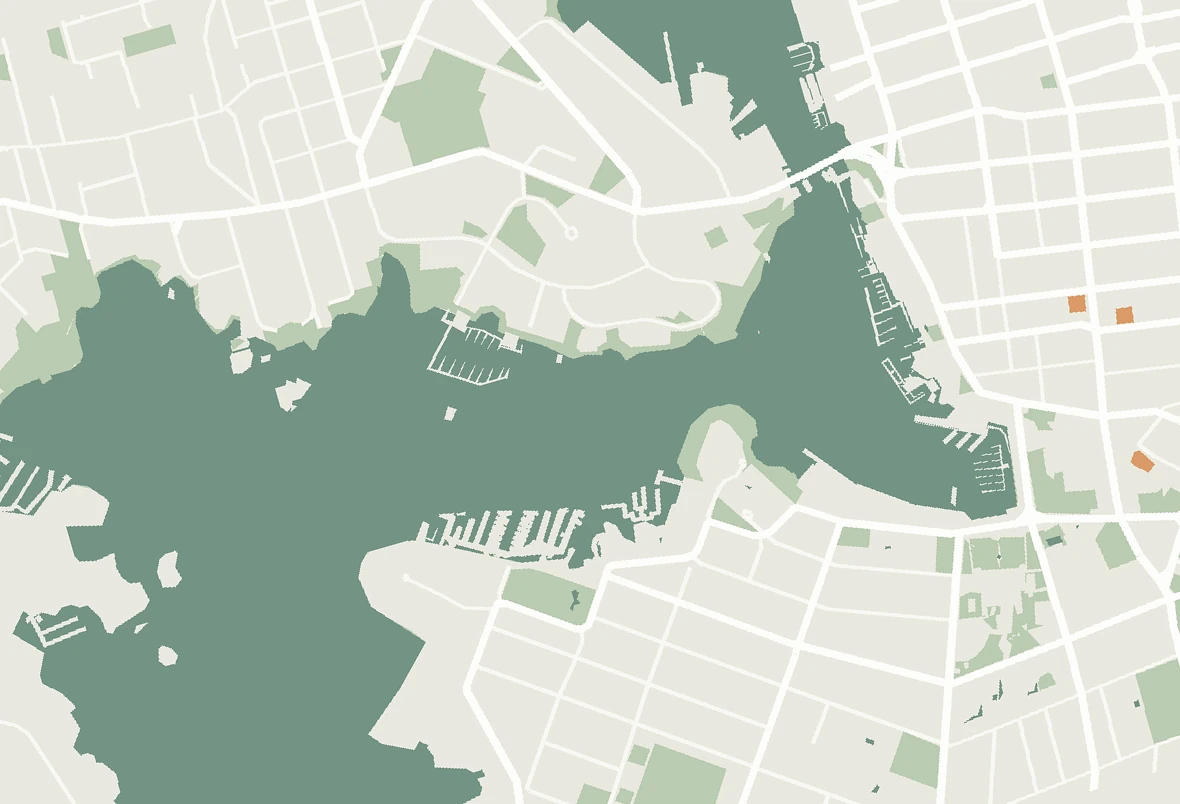
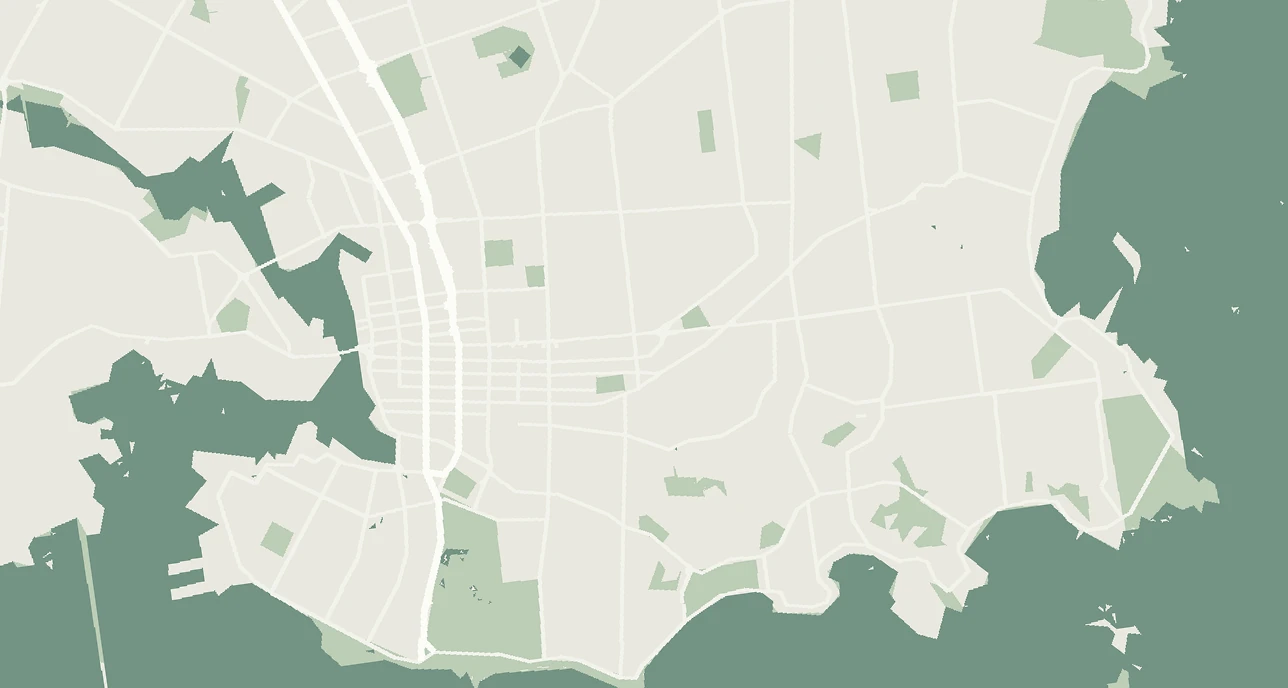
Widen and soften the Victoria hero map

diff --git a/src/styles/atlas.css b/src/styles/atlas.css
@@ -60,16 +60,11 @@
 
 .site-header {
   display: flex;
-  justify-content: space-between;
+  justify-content: flex-end;
   align-items: center;
   gap: 1rem;
   padding-block: 19px 15px;
   border-bottom: 1px solid var(--ink);
-}
-
-.site-name {
-  font: 400 clamp(1.4rem, 2.5vw, 1.95rem) / 1 var(--font-serif);
-  letter-spacing: -0.035em;
 }
 
 .site-header nav,
@@ -141,17 +136,35 @@
   position: absolute;
   z-index: -1;
   inset: 0 max(-4vw, -52px) 0 auto;
-  width: min(74%, 900px);
+  width: min(83%, 1000px);
 }
 
 .harbour > img {
   width: 100%;
   height: 100%;
   object-fit: cover;
-  object-position: 75% 50%;
+  object-position: 86% 50%;
   mask-image:
-    linear-gradient(to right, transparent 5%, rgb(0 0 0 / 42%) 24%, #000 44%),
-    linear-gradient(to bottom, #000 75%, transparent 99%);
+    linear-gradient(
+      to right,
+      transparent 3%,
+      rgb(0 0 0 / 8%) 16%,
+      rgb(0 0 0 / 36%) 32%,
+      rgb(0 0 0 / 76%) 48%,
+      rgb(0 0 0 / 96%) 63%,
+      #000 74% 85%,
+      rgb(0 0 0 / 78%) 92%,
+      rgb(0 0 0 / 28%) 97%,
+      transparent 100%
+    ),
+    linear-gradient(
+      to bottom,
+      #000 50%,
+      rgb(0 0 0 / 89%) 63%,
+      rgb(0 0 0 / 52%) 78%,
+      rgb(0 0 0 / 14%) 91%,
+      transparent 100%
+    );
   mask-composite: intersect;
 }
 
@@ -373,13 +386,23 @@
 
   .harbour > img {
     mask-image:
-      linear-gradient(to right, transparent, #000 51%),
+      linear-gradient(
+        to right,
+        transparent,
+        rgb(0 0 0 / 12%) 14%,
+        rgb(0 0 0 / 52%) 34%,
+        rgb(0 0 0 / 93%) 61%,
+        #000 83%
+      ),
       linear-gradient(
         to bottom,
-        transparent 18%,
-        #000 51%,
-        #000 73%,
-        transparent 94%
+        transparent 9%,
+        rgb(0 0 0 / 16%) 24%,
+        rgb(0 0 0 / 62%) 41%,
+        #000 59%,
+        rgb(0 0 0 / 72%) 76%,
+        rgb(0 0 0 / 22%) 91%,
+        transparent 100%
       );
   }
 

diff --git a/scripts/render-victoria-map.py b/scripts/render-victoria-map.py
@@ -21,9 +21,10 @@ from shapely.affinity import affine_transform
 from shapely.ops import unary_union
 
 
-ZOOM = 14
-LEFT, TOP, RIGHT = 2575.88, 5665.60, 2577.78
-WIDTH, HEIGHT = 1440, 1024
+# Frame the city from Victoria Harbour to the Oak Bay shoreline.
+ZOOM = 13
+LEFT, TOP, RIGHT = 1287.7, 2832.16, 1290.75
+WIDTH, HEIGHT = 1440, 890
 SCALE = WIDTH / (RIGHT - LEFT)
 BOTTOM = TOP + HEIGHT / SCALE
 OUTPUT = Path(__file__).resolve().parents[1] / "src/assets/atlas/victoria-harbour.webp"
@@ -51,7 +52,6 @@ def tile_features():
                     "park",
                     "landcover",
                     "landuse",
-                    "building",
                     "transportation",
                 }:
                     continue
@@ -97,61 +97,41 @@ def main():
     land, water = "#e9e9df", "#749485"
     image = Image.new("RGB", (WIDTH, HEIGHT), land)
     draw = ImageDraw.Draw(image)
-    layers = {
-        name: [] for name in ("green", "water", "building", "minor", "major", "pier")
-    }
+    layers = {name: [] for name in ("green", "water", "arterial", "major")}
     for layer, properties, geometry in tile_features():
         kind = properties.get("class")
         if layer == "water":
             layers["water"].append(geometry)
-        if layer == "building":
-            layers["building"].append(geometry)
         if (
             layer == "park"
             or layer == "landcover"
             and kind in {"wood", "grass"}
             or layer == "landuse"
             and kind in {"recreation_ground", "cemetery"}
-        ):
+        ) and geometry.area > 350:
             layers["green"].append(geometry)
         if layer == "transportation":
-            if kind in {"motorway", "trunk", "primary", "secondary", "tertiary"}:
+            if kind in {"motorway", "trunk", "primary"}:
                 layers["major"].append(geometry)
-            elif kind == "minor" and properties.get("subclass") != "service":
-                layers["minor"].append(geometry)
-            elif kind == "pier":
-                layers["pier"].append(geometry)
+            elif kind in {"secondary", "tertiary"}:
+                layers["arterial"].append(geometry)
 
-    for green in layers["green"]:
-        if green.area > 150:
-            polygon(draw, green.simplify(2), "#bacbb1", land)
-    for building in layers["building"]:
-        point = building.representative_point()
-        accent = (
-            building.area > 180
-            and point.x > WIDTH * 0.59
-            and int(point.x + point.y) % 31 == 0
-        )
-        if accent:
-            polygon(draw, building.simplify(1.5), "#da9a67", land)
+    green = unary_union(layers["green"]).simplify(5)
+    polygon(draw, green, "#bccdb6", land)
 
-    shoreline = unary_union(layers["water"]).simplify(2)
+    shoreline = unary_union(layers["water"]).simplify(5)
     polygon(draw, shoreline, water, land)
 
     for name, color, width in [
-        ("minor", "#f8f8f3", 4),
-        ("pier", "#e9e9df", 5),
-        ("major", "#fdfdfb", 8),
+        ("arterial", "#f3f3ed", 4),
+        ("major", "#fcfcf7", 7),
     ]:
         for geometry in layers[name]:
-            geometry = geometry.simplify(1.5)
-            if name == "pier":
-                polygon(draw, geometry, color, water)
-            line(draw, geometry, color, width)
+            line(draw, geometry.simplify(3), color, width)
 
-    # Frame the harbour as an editorial illustration using a rotated, inset crop.
-    image = image.rotate(16, resample=Image.Resampling.BICUBIC, fillcolor=land)
-    image = image.crop((130, 110, WIDTH - 130, HEIGHT - 110))
+    # The slight rotation sets the shore and main corridors on a diagonal.
+    image = image.rotate(8, resample=Image.Resampling.BICUBIC, fillcolor=land)
+    image = image.crop((76, 101, WIDTH - 76, HEIGHT - 101))
     OUTPUT.parent.mkdir(parents=True, exist_ok=True)
     image.save(OUTPUT, quality=90, method=6)
 
